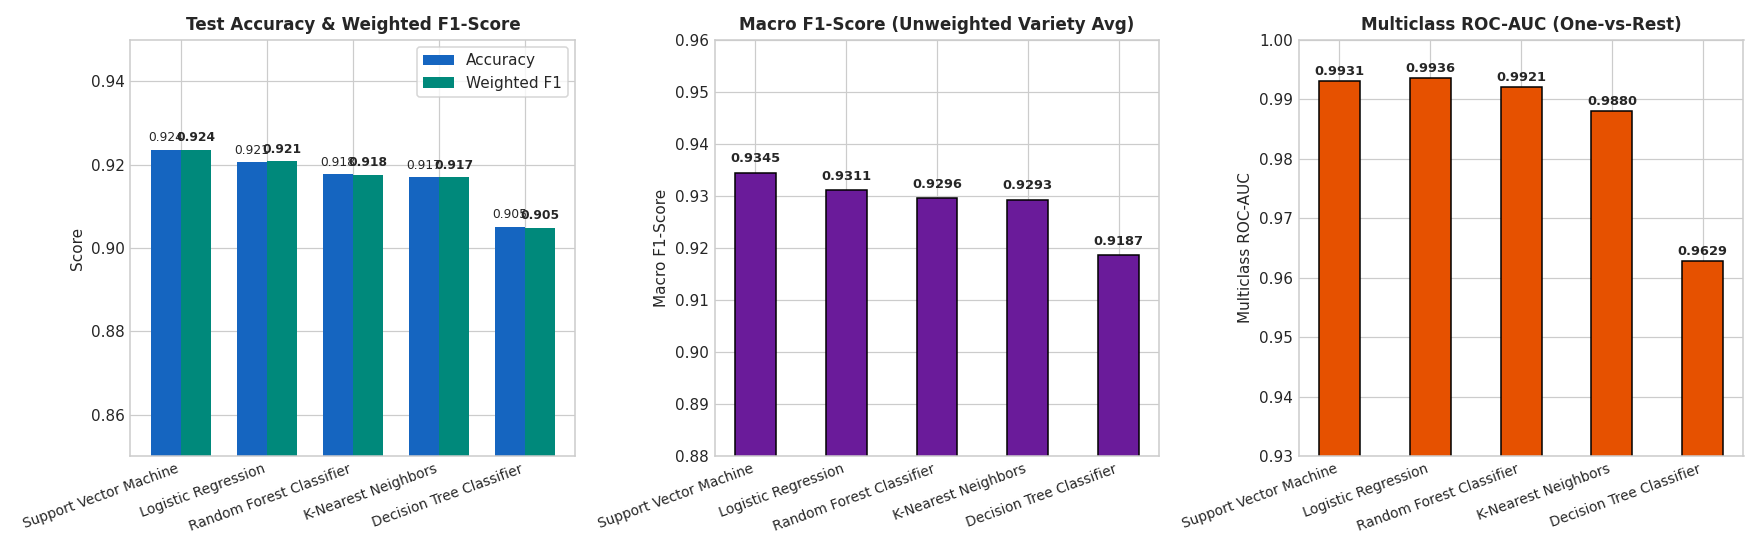
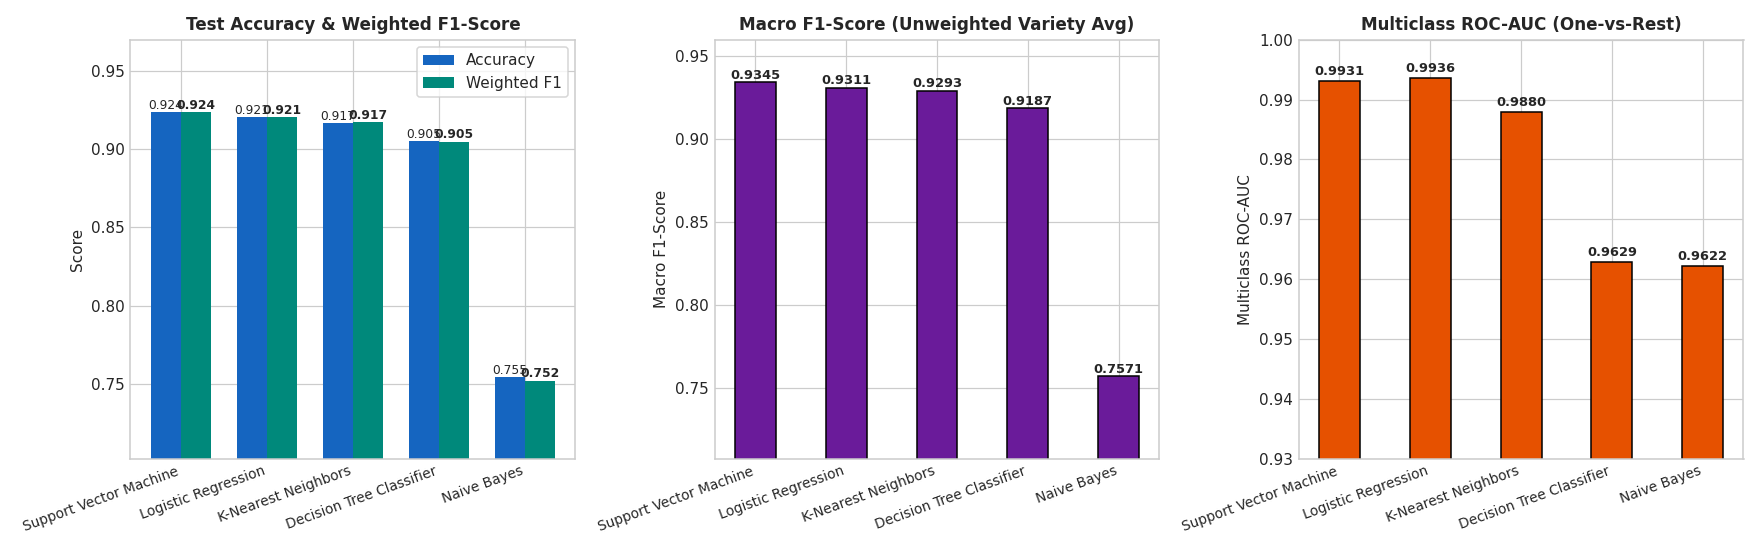
Add README

diff --git a/README.md b/README.md
@@ -11,7 +11,7 @@ ML_Capstone/
 │   ├── classification_feature_relationships.png
 │   ├── classification_knn_tuning_curve.png
 │   ├── classification_model_comparison.png
-│   ├── classification_random_forest_feature_importance.png
+│   ├── classification_naive_bayes_distribution.png
 │   ├── classification_roc_curves.png
 │   ├── classification_target_distribution.png
 │   ├── regression_baseline_comparison.png
@@ -142,8 +142,8 @@ The Support Vector Machine (SVC) with an RBF kernel ($C=10$) delivered the highe
 ![Decision Tree Architecture](assets/classification_decision_tree_architecture.png)  
 *Pruned Decision Tree Structural Architecture.*
 
-![Random Forest Feature Importance](assets/classification_random_forest_feature_importance.png)  
-*Random Forest Gini Impurity feature importances across seed morphometry features.*
+![Gaussian Naive Bayes Distribution](assets/classification_naive_bayes_distribution.png)  
+*Gaussian Naive Bayes class-conditional feature distribution profiles.*
 
 ![Classification Model Comparison](assets/classification_model_comparison.png)  
 *Classification benchmark comparison across Accuracy, Weighted F1, Macro F1, and Multiclass ROC-AUC.*
@@ -161,7 +161,7 @@ The official performance metrics evaluated strictly on the 2,709 held-out test s
 | Logistic Regression | 0.9206 | 0.9213 | 0.9206 | 0.9208 | 0.9311 | 0.9936 | 0.9244 | `{'C': 10.0}` |
 | K-Nearest Neighbors (KNN) | 0.9169 | 0.9177 | 0.9169 | 0.9171 | 0.9293 | 0.9880 | 0.9232 | `{'n_neighbors': 13}` |
 | Decision Tree Classifier | 0.9051 | 0.9051 | 0.9051 | 0.9049 | 0.9187 | 0.9629 | 0.9055 | `{'max_depth': 12, 'min_samples_split': 10}` |
-| Naive Bayes (Gaussian) | 0.7545 | 0.7556 | 0.7545 | 0.7521 | 0.7571 | 0.9622 | N/A | Default (`var_smoothing=1e-9`) |
+| Naive Bayes (Gaussian) | 0.7545 | 0.7556 | 0.7545 | 0.7521 | 0.7571 | 0.9622 | N/A | `Default (var_smoothing=1e-9)` |
 
 ## Clustering Track
 
